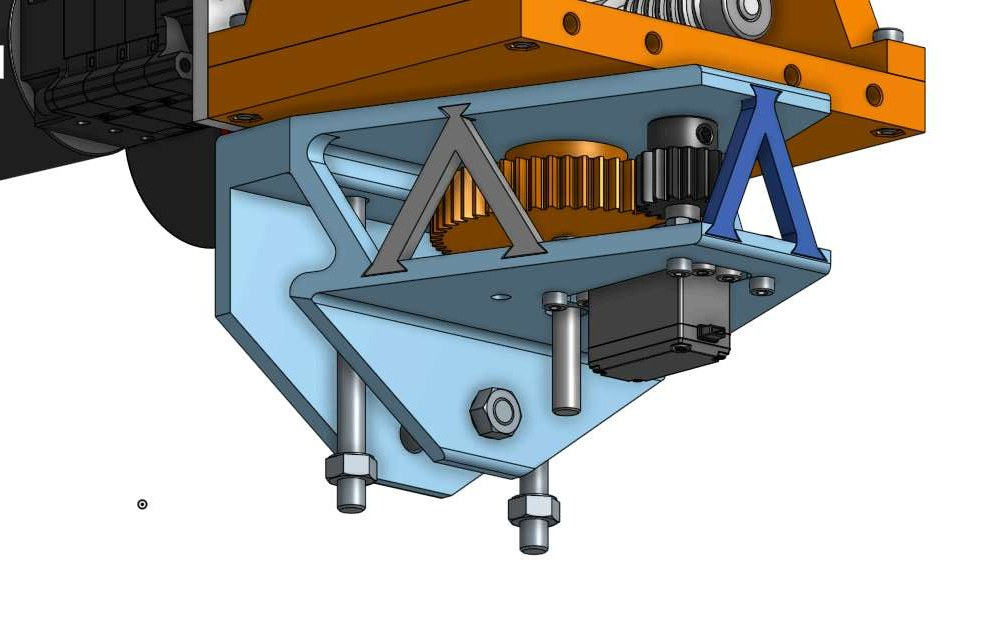
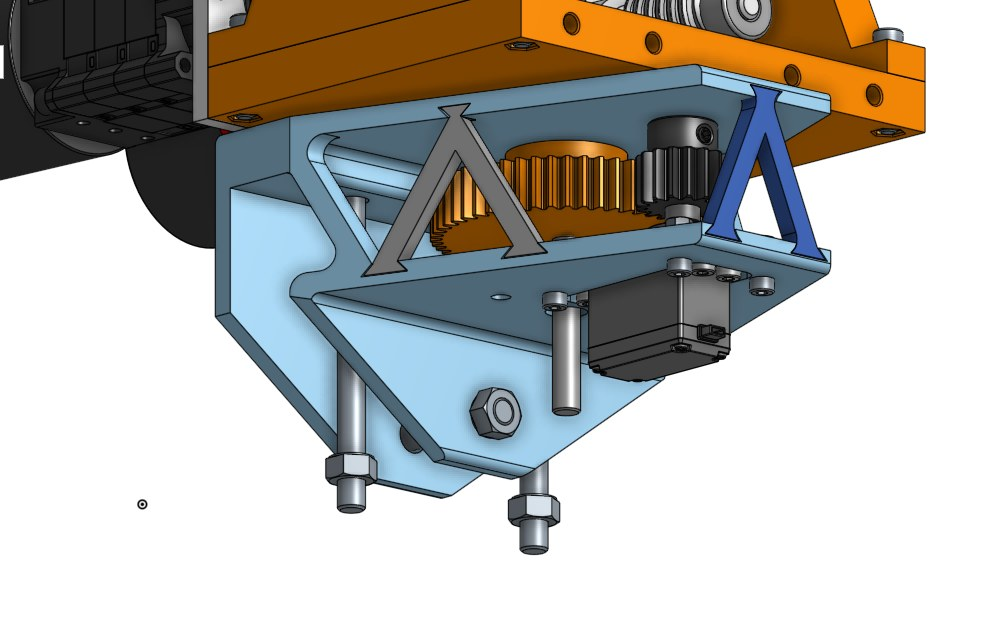
Add capstone and topology cards, wire URC gallery, handle imageless modals
- Rename and compress the five uploaded URC images to descriptive
  filenames, cutting them from 1.5 MB to 360 KB total.
- Give the Robotic Arm Mount a real gallery: full arm assembly, the rover
  in the field, and the FEA displacement plot behind the 0.133 mm figure.
- Add Multi-Use Drone System and Topology Optimization Study as Current
  Work cards. Both just started, so they carry no imagery and the copy
  says only what is true today.
- Teach the modal to drop its image pane entirely when a project has no
  images, letting the text span full width. This also fixes the empty
  pane that the Rover Wheel Testing Platform modal already had.

diff --git a/index.html b/index.html
@@ -729,6 +729,8 @@
     }
     .pmg-thumb { flex: 1; object-fit: cover; min-width: 0; display: block; }
     .pmg-row.hidden { display: none; }
+    .proj-modal.no-media .proj-modal-gallery { display: none; }
+    .proj-modal.no-media .proj-modal-body { width: 100%; border-left: none; }
 
     .proj-modal-body {
       position: absolute; right: 0; top: 0; bottom: 0; width: 44%;
@@ -1012,7 +1014,7 @@
     </div>
 
     <!-- 6. URC Robotic Arm Mount -->
-    <div class="proj-card reveal d2" role="button" tabindex="0" aria-label="View project: Robotic Arm Mount" data-g1="Images/urc-arm-mount.jpg" data-g2="Images/urc-arm-mount-before.jpg" data-g3="">
+    <div class="proj-card reveal d2" role="button" tabindex="0" aria-label="View project: Robotic Arm Mount" data-g1="Images/urc-arm-full.jpg" data-g2="Images/urc-rover-field.jpg" data-g3="Images/urc-arm-fea.jpg">
       <div class="flip-inner">
         <div class="flip-front">
           <div class="proj-thumb">
@@ -1045,7 +1047,7 @@
       <div class="sec-rule"></div>
       <h2>Current Work</h2>
     </div>
-    <div class="curr-live-count">1 active project</div>
+    <div class="curr-live-count">3 active projects</div>
   </div>
 
   <!-- Featured: Mars Rover -->
@@ -1091,7 +1093,36 @@
   </div>
 
   <!-- Secondary cards -->
-  <div class="curr-secondary"></div>
+  <div class="curr-secondary">
+    <div class="curr-card reveal"
+      role="button" tabindex="0" aria-label="View current project: Multi-Use Drone System"
+      data-modal-purpose="For senior capstone"
+      data-modal-tags='[{"text":"Active","type":"o"},{"text":"Capstone","type":"b"},{"text":"Systems","type":"o"}]'
+      data-modal-chips='["Requirements","Multi-Payload","Class of 2027"]'
+      data-g1="" data-g2="" data-g3="">
+      <div class="curr-badge" style="margin-bottom:1rem"><div class="curr-badge-dot"></div>Active · Senior Capstone</div>
+      <h3>Multi-Use Drone System</h3>
+      <p>My senior capstone: a drone platform designed to carry more than one mission. Kicked off this term, so the work right now is requirements definition and scoping the payload interface before anything gets built.</p>
+      <div class="curr-meta">
+        <div class="meta-item"><span class="meta-l">Type</span><span class="meta-v">Senior Capstone</span></div>
+        <div class="meta-item"><span class="meta-l">Stage</span><span class="meta-v">Requirements</span></div>
+      </div>
+    </div>
+    <div class="curr-card reveal d1"
+      role="button" tabindex="0" aria-label="View current project: Topology Optimization Study"
+      data-modal-purpose="For Design for Additive Manufacturing"
+      data-modal-tags='[{"text":"Active","type":"o"},{"text":"DFAM","type":"b"},{"text":"FEA","type":"o"}]'
+      data-modal-chips='["Topology Optimization","Coursework","Print-Ready Design"]'
+      data-g1="" data-g2="" data-g3="">
+      <div class="curr-badge" style="margin-bottom:1rem"><div class="curr-badge-dot"></div>Active · Design for Additive Mfg</div>
+      <h3>Topology Optimization Study</h3>
+      <p>A coursework study in Design for Additive Manufacturing: driving mass out of a loaded part with topology optimization, then working the result back into something a printer can actually produce. Just underway.</p>
+      <div class="curr-meta">
+        <div class="meta-item"><span class="meta-l">Course</span><span class="meta-v">Design for Additive</span></div>
+        <div class="meta-item"><span class="meta-l">Focus</span><span class="meta-v">Topology / DFAM</span></div>
+      </div>
+    </div>
+  </div>
 </section>
 
 <!-- ── ABOUT ────────────────────────────────────────────── -->
@@ -1449,6 +1480,7 @@ function openModal({ title, purpose, desc, tagsHTML, chipsHTML, gallery, gallery
 
   const fallback = gallery[0] || '';
   const hasExtra = gallery[1] || gallery[2];
+  projModal.classList.toggle('no-media', !fallback);
   [0,1,2].forEach(n => {
     modalGimg[n].src = gallery[n] || fallback;
     modalGimg[n].alt = galleryAlt || '';
@@ -1615,7 +1647,7 @@ function closeModal() {
 }());
 </script>
 
-<!-- RF:DATA:START --><script>window.__RF_PROJECTS__=[{"img":"Images/s-blob-v1-IMAGE-2D47x0WK1bA.jpg","imgAlt":"Extending Swan Neck in performance","imgPos":"center center","title":"Extending Swan Neck","purpose":"For a live stage performance","description":"A costume neck that extends on cue. A hinged spring looked wrong and the pneumatic version leaked, so the final design used a spring motor driving telescoping PVC. It worked on stage, on cue, every night of the run.","tags":[{"text":"Mechanisms","type":"o"},{"text":"Iterative","type":"b"},{"text":"Wearable","type":"o"}],"chips":["Visual Impact","Live Performance","Spring Motor"],"gallery":["Images/s-blob-v1-IMAGE-YojODm7Gp-w.jpg","Images/1OzH356ipZ7WrUgNcsQkdtkReUU20dYHQdBsX0k5BvoQ.jpg","Images/s-blob-v1-IMAGE-2D47x0WK1bA.jpg"]},{"img":"Images/s-blob-v1-IMAGE-vf-cocqu48I.jpg","imgAlt":"Human Hamster Wheel in use","imgPos":"center center","title":"Human Hamster Wheel","purpose":"For STEM education","description":"A 10-foot wheel that turns running into electricity — 600 pounds, five modular subsystems, and it did light the LED array. Then integration failed: no CAD, no prototypes, no calculations. Every project since has started with prototyping and math.","tags":[{"text":"Large Scale","type":"o"},{"text":"Post-Mortem","type":"b"},{"text":"STEM Ed","type":"o"}],"chips":["600 lbs · 10 ft","5 Subsystems","Failure Analysis"],"gallery":["Images/s-blob-v1-IMAGE-A_wY-ZRlS4M.jpg","Images/s-blob-v1-IMAGE-9Iiq1E_7_t4.jpg","Images/s-blob-v1-IMAGE-MhPmNqbZoJk.jpg"]},{"img":"Images/s-blob-v1-IMAGE-DLoTMGmAua0.jpg","imgAlt":"2D Pen Plotter in action","imgPos":"center center","title":"Core-XY Pen Plotter","purpose":"For automated vector drawing","description":"A 2D plotter for my Physical Prototyping course that takes an input vector image and draws it on paper. Prototyping, CAD, and code integrated into one product — the components went through many iterations to work as intended.","tags":[{"text":"Robotics","type":"o"},{"text":"Arduino","type":"b"},{"text":"Python","type":"o"}],"chips":["CoreXY","Python Pipeline","Iterative Design"],"gallery":["","",""]},{"img":"Images/s-blob-v1-IMAGE-NvEjpGLmDq0.jpg","imgAlt":"Touchless Faucet Pad final demo","imgPos":"center center","title":"Touchless Faucet Pad","purpose":"For hands-free faucet control","description":"Pressure-pad reimagining of the touchless faucet. Copper plate contacts, silicone rebound, temperature control, and shutoff delay, all shaped by stakeholder interviews and restroom space analysis.","tags":[{"text":"Prototyping","type":"o"},{"text":"Concepting","type":"b"},{"text":"Data Analysis","type":"o"}],"chips":["Stakeholder Input","Space Analysis","Go-To-Market"],"gallery":["","",""]},{"img":"Images/s-blob-v1-IMAGE-BS6YwhhiHCc.jpg","imgAlt":"PGM Mining Vensim systems model","imgPos":"center center","title":"Platinum Mining Systems Model","purpose":"For platinum supply policy modeling","description":"A Vensim model of platinum mining in South Africa built from 40+ sources. Energy use, injury rate, and profit sit inside one boundary, so a safety investment reads as both an added expense and fewer injuries at once.","tags":[{"text":"Systems Modeling","type":"o"},{"text":"Vensim","type":"b"},{"text":"Policy","type":"o"}],"chips":["40+ Sources","EDNS 310","Runs 2016–2040"],"gallery":["","",""]},{"img":"Images/urc-arm-mount.jpg","imgAlt":"3D printed robotic arm mount on the URC rover chassis","imgPos":"center center","title":"Robotic Arm Mount","purpose":"For the University Rover Challenge","description":"The bracket holding the robotic arm to the rover chassis. FEA showed the original sheet-metal plate deflecting too far under load, so I redesigned it as a 3D print with triangulated ribs and fiber routed along the load path. It snaps in for fast tool swaps at competition.","tags":[{"text":"Additive Mfg","type":"o"},{"text":"FEA","type":"b"},{"text":"URC 2026","type":"o"}],"chips":["0.133 mm Deflection","<5 min Install","Continuous Fiber"],"gallery":["Images/urc-arm-mount.jpg","Images/urc-arm-mount-before.jpg",""]}]</script><!-- RF:DATA:END -->
-<!-- RF:CURR:START --><script>window.__RF_CURR_PROJECTS__=[{"img":"","badge":"Active · Mines RoSE Lab","title":"Rover Wheel Testing Platform","description":"The RoSE Lab tests lunar rover wheels on a platform built from six subsystems. Mine is storage and lift — two half-ton chain hoists that suspend the full platform from the ceiling. It carried the highest risk on the register, so I closed it out with clamps and a safety net.","purpose":"For the Mines RoSE Lab","tags":[{"text":"Active","type":"o"},{"text":"RoSE Lab","type":"b"},{"text":"Mechanisms","type":"o"}],"chips":["550 lb · FoS > 5","~15 min Stow","$780 BOM"],"gallery":["","",""]}]</script><!-- RF:CURR:END -->
+<!-- RF:DATA:START --><script>window.__RF_PROJECTS__=[{"img":"Images/s-blob-v1-IMAGE-2D47x0WK1bA.jpg","imgAlt":"Extending Swan Neck in performance","imgPos":"center center","title":"Extending Swan Neck","purpose":"For a live stage performance","description":"A costume neck that extends on cue. A hinged spring looked wrong and the pneumatic version leaked, so the final design used a spring motor driving telescoping PVC. It worked on stage, on cue, every night of the run.","tags":[{"text":"Mechanisms","type":"o"},{"text":"Iterative","type":"b"},{"text":"Wearable","type":"o"}],"chips":["Visual Impact","Live Performance","Spring Motor"],"gallery":["Images/s-blob-v1-IMAGE-YojODm7Gp-w.jpg","Images/1OzH356ipZ7WrUgNcsQkdtkReUU20dYHQdBsX0k5BvoQ.jpg","Images/s-blob-v1-IMAGE-2D47x0WK1bA.jpg"]},{"img":"Images/s-blob-v1-IMAGE-vf-cocqu48I.jpg","imgAlt":"Human Hamster Wheel in use","imgPos":"center center","title":"Human Hamster Wheel","purpose":"For STEM education","description":"A 10-foot wheel that turns running into electricity — 600 pounds, five modular subsystems, and it did light the LED array. Then integration failed: no CAD, no prototypes, no calculations. Every project since has started with prototyping and math.","tags":[{"text":"Large Scale","type":"o"},{"text":"Post-Mortem","type":"b"},{"text":"STEM Ed","type":"o"}],"chips":["600 lbs · 10 ft","5 Subsystems","Failure Analysis"],"gallery":["Images/s-blob-v1-IMAGE-A_wY-ZRlS4M.jpg","Images/s-blob-v1-IMAGE-9Iiq1E_7_t4.jpg","Images/s-blob-v1-IMAGE-MhPmNqbZoJk.jpg"]},{"img":"Images/s-blob-v1-IMAGE-DLoTMGmAua0.jpg","imgAlt":"2D Pen Plotter in action","imgPos":"center center","title":"Core-XY Pen Plotter","purpose":"For automated vector drawing","description":"A 2D plotter for my Physical Prototyping course that takes an input vector image and draws it on paper. Prototyping, CAD, and code integrated into one product — the components went through many iterations to work as intended.","tags":[{"text":"Robotics","type":"o"},{"text":"Arduino","type":"b"},{"text":"Python","type":"o"}],"chips":["CoreXY","Python Pipeline","Iterative Design"],"gallery":["","",""]},{"img":"Images/s-blob-v1-IMAGE-NvEjpGLmDq0.jpg","imgAlt":"Touchless Faucet Pad final demo","imgPos":"center center","title":"Touchless Faucet Pad","purpose":"For hands-free faucet control","description":"Pressure-pad reimagining of the touchless faucet. Copper plate contacts, silicone rebound, temperature control, and shutoff delay, all shaped by stakeholder interviews and restroom space analysis.","tags":[{"text":"Prototyping","type":"o"},{"text":"Concepting","type":"b"},{"text":"Data Analysis","type":"o"}],"chips":["Stakeholder Input","Space Analysis","Go-To-Market"],"gallery":["","",""]},{"img":"Images/s-blob-v1-IMAGE-BS6YwhhiHCc.jpg","imgAlt":"PGM Mining Vensim systems model","imgPos":"center center","title":"Platinum Mining Systems Model","purpose":"For platinum supply policy modeling","description":"A Vensim model of platinum mining in South Africa built from 40+ sources. Energy use, injury rate, and profit sit inside one boundary, so a safety investment reads as both an added expense and fewer injuries at once.","tags":[{"text":"Systems Modeling","type":"o"},{"text":"Vensim","type":"b"},{"text":"Policy","type":"o"}],"chips":["40+ Sources","EDNS 310","Runs 2016–2040"],"gallery":["","",""]},{"img":"Images/urc-arm-mount.jpg","imgAlt":"3D printed robotic arm mount on the URC rover chassis","imgPos":"center center","title":"Robotic Arm Mount","purpose":"For the University Rover Challenge","description":"The bracket holding the robotic arm to the rover chassis. FEA showed the original sheet-metal plate deflecting too far under load, so I redesigned it as a 3D print with triangulated ribs and fiber routed along the load path. It snaps in for fast tool swaps at competition.","tags":[{"text":"Additive Mfg","type":"o"},{"text":"FEA","type":"b"},{"text":"URC 2026","type":"o"}],"chips":["0.133 mm Deflection","<5 min Install","Continuous Fiber"],"gallery":["Images/urc-arm-full.jpg","Images/urc-rover-field.jpg","Images/urc-arm-fea.jpg"]}]</script><!-- RF:DATA:END -->
+<!-- RF:CURR:START --><script>window.__RF_CURR_PROJECTS__=[{"img":"","badge":"Active · Mines RoSE Lab","title":"Rover Wheel Testing Platform","description":"The RoSE Lab tests lunar rover wheels on a platform built from six subsystems. Mine is storage and lift — two half-ton chain hoists that suspend the full platform from the ceiling. It carried the highest risk on the register, so I closed it out with clamps and a safety net.","purpose":"For the Mines RoSE Lab","tags":[{"text":"Active","type":"o"},{"text":"RoSE Lab","type":"b"},{"text":"Mechanisms","type":"o"}],"chips":["550 lb · FoS > 5","~15 min Stow","$780 BOM"],"gallery":["","",""]},{"img":"","badge":"Active · Senior Capstone","title":"Multi-Use Drone System","description":"My senior capstone: a drone platform designed to carry more than one mission. Kicked off this term, so the work right now is requirements definition and scoping the payload interface before anything gets built.","purpose":"For senior capstone","tags":[{"text":"Active","type":"o"},{"text":"Capstone","type":"b"},{"text":"Systems","type":"o"}],"chips":["Requirements","Multi-Payload","Class of 2027"],"gallery":["","",""]},{"img":"","badge":"Active · Design for Additive Mfg","title":"Topology Optimization Study","description":"A coursework study in Design for Additive Manufacturing: driving mass out of a loaded part with topology optimization, then working the result back into something a printer can actually produce. Just underway.","purpose":"For Design for Additive Manufacturing","tags":[{"text":"Active","type":"o"},{"text":"DFAM","type":"b"},{"text":"FEA","type":"o"}],"chips":["Topology Optimization","Coursework","Print-Ready Design"],"gallery":["","",""]}]</script><!-- RF:CURR:END -->
 </body>
 </html>

diff --git a/admin.html b/admin.html
@@ -299,7 +299,7 @@ const DEFAULTS = [
     description: 'The bracket holding the robotic arm to the rover chassis. FEA showed the original sheet-metal plate deflecting too far under load, so I redesigned it as a 3D print with triangulated ribs and fiber routed along the load path. It snaps in for fast tool swaps at competition.',
     tags: [{text:'Additive Mfg',type:'o'},{text:'FEA',type:'b'},{text:'URC 2026',type:'o'}],
     chips: ['0.133 mm Deflection','<5 min Install','Continuous Fiber'],
-    gallery: ['Images/urc-arm-mount.jpg','Images/urc-arm-mount-before.jpg',''],
+    gallery: ['Images/urc-arm-full.jpg','Images/urc-rover-field.jpg','Images/urc-arm-fea.jpg'],
   },
 ];
 
@@ -792,9 +792,27 @@ const CURR_DEFAULTS = [
     chips: ['550 lb · FoS > 5','~15 min Stow','$780 BOM'],
     gallery: ['','',''],
   },
+  {
+    img: '', badge: 'Active · Senior Capstone',
+    title: 'Multi-Use Drone System',
+    description: 'My senior capstone: a drone platform designed to carry more than one mission. Kicked off this term, so the work right now is requirements definition and scoping the payload interface before anything gets built.',
+    purpose: 'For senior capstone',
+    tags: [{text:'Active',type:'o'},{text:'Capstone',type:'b'},{text:'Systems',type:'o'}],
+    chips: ['Requirements','Multi-Payload','Class of 2027'],
+    gallery: ['','',''],
+  },
+  {
+    img: '', badge: 'Active · Design for Additive Mfg',
+    title: 'Topology Optimization Study',
+    description: 'A coursework study in Design for Additive Manufacturing: driving mass out of a loaded part with topology optimization, then working the result back into something a printer can actually produce. Just underway.',
+    purpose: 'For Design for Additive Manufacturing',
+    tags: [{text:'Active',type:'o'},{text:'DFAM',type:'b'},{text:'FEA',type:'o'}],
+    chips: ['Topology Optimization','Coursework','Print-Ready Design'],
+    gallery: ['','',''],
+  },
 ];
 
-const CURR_LABELS = ['Featured · Rover Platform'];
+const CURR_LABELS = ['Featured · Rover Platform', 'Card 01 · Drone Capstone', 'Card 02 · Topology Study'];
 
 let currState = JSON.parse(localStorage.getItem('rf_curr_projects') || 'null')
   || cloneCurrDefaults();
